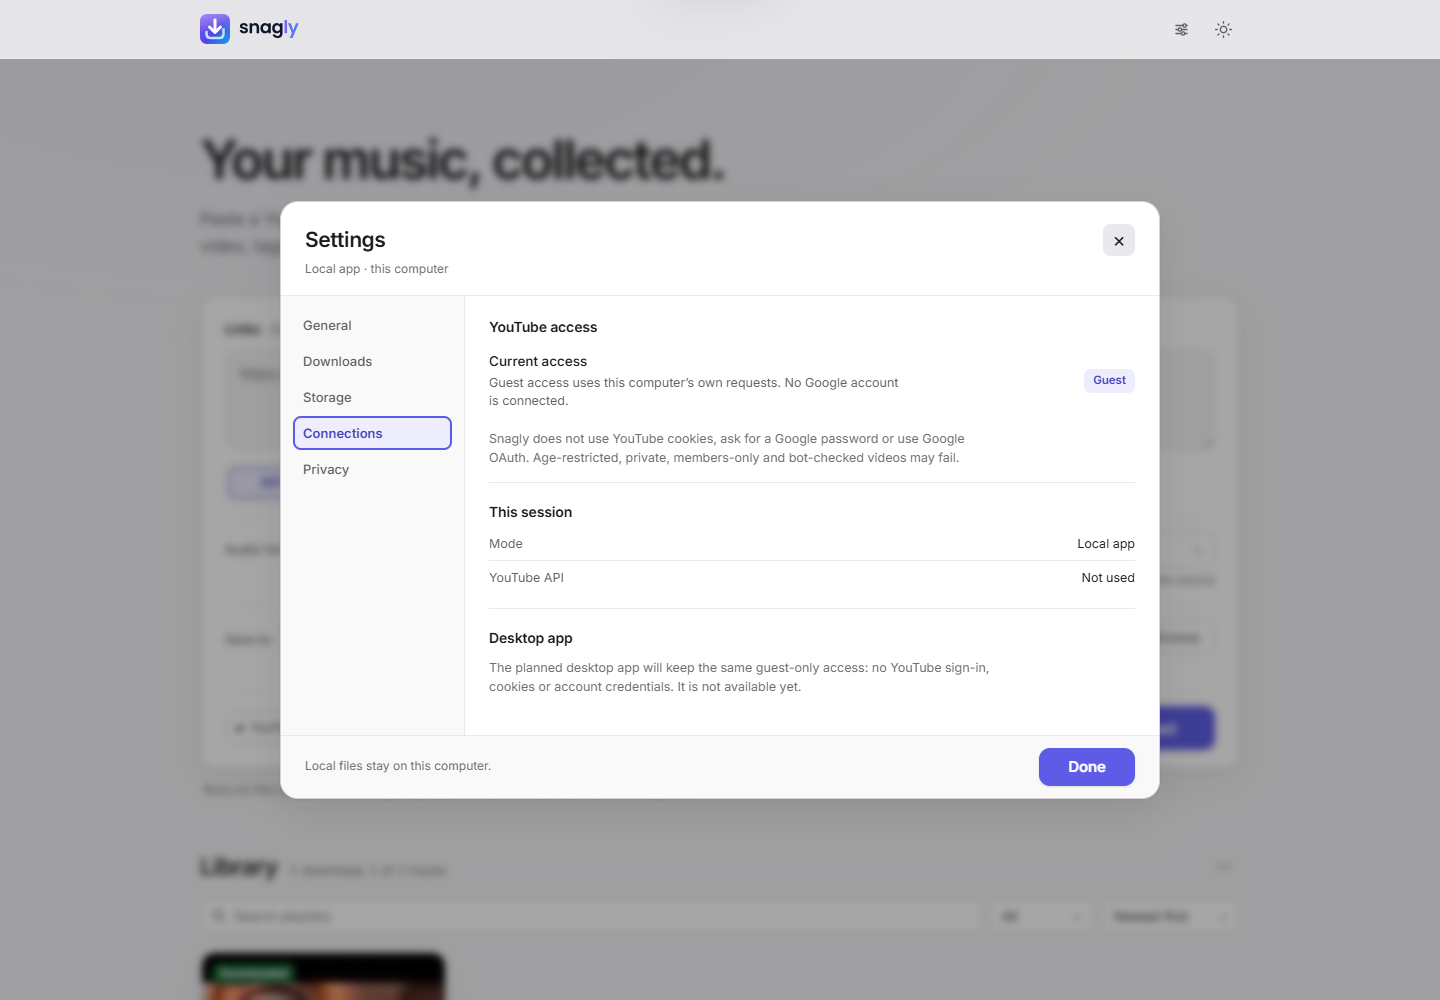
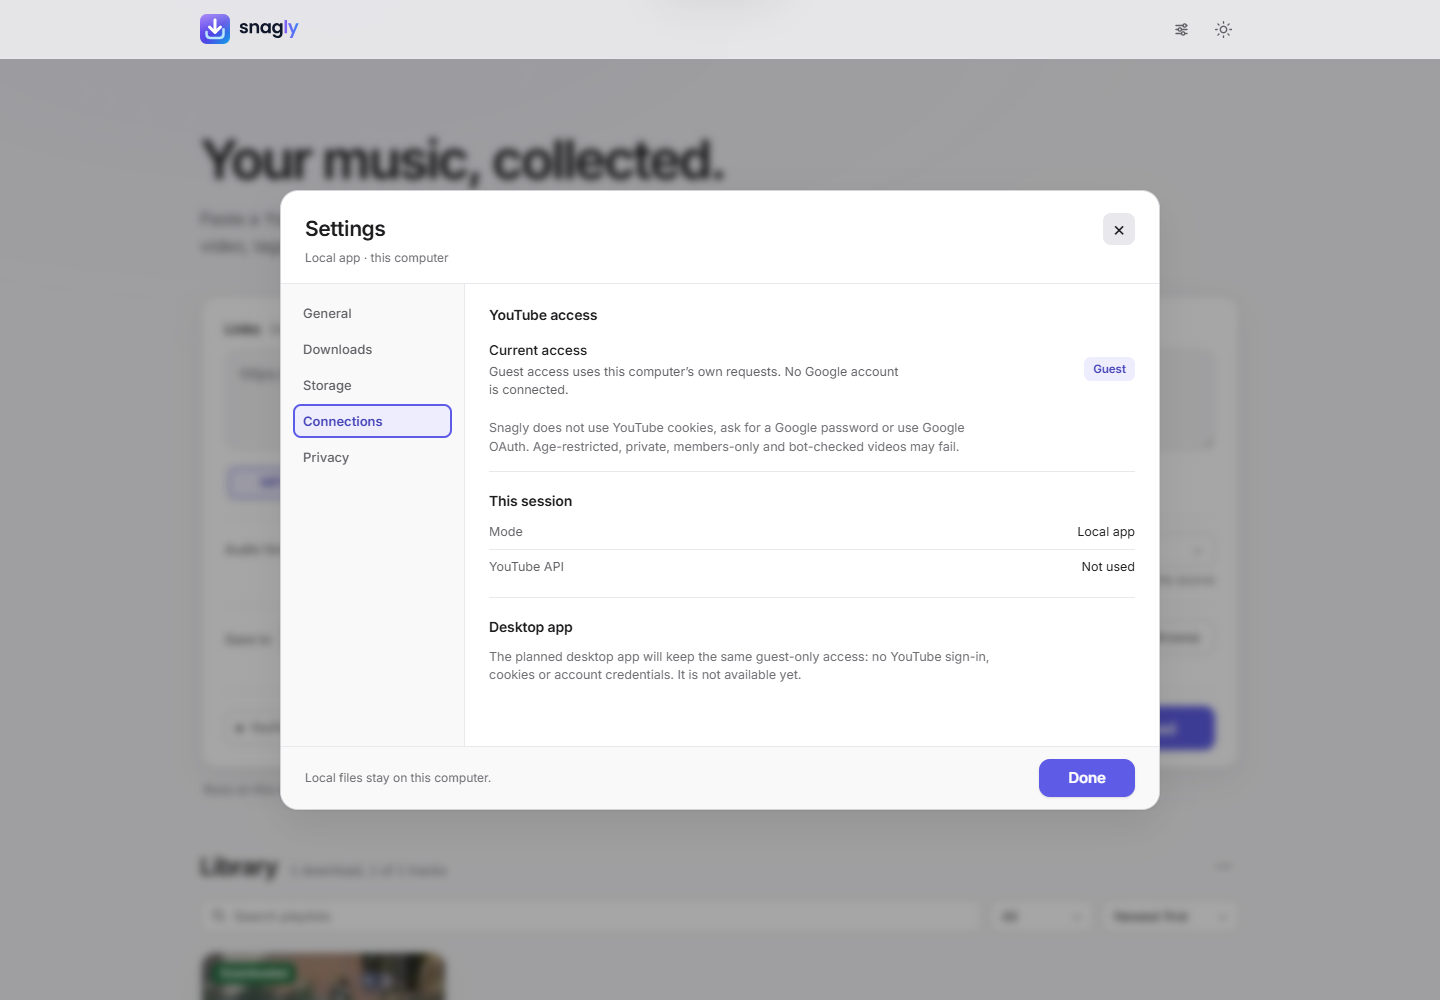
Keep the settings dialog at one stable height
The settings modal was content-sized, so it jumped between 383px and 597px as tabs changed. Pin it to 620px on desktop (88vh cap) and 680px on small screens (90vh cap), letting the panel scroll when a tab is taller. Refresh the affected audit screenshots.

diff --git a/apps/web/public/styles.css b/apps/web/public/styles.css
@@ -1642,6 +1642,7 @@ button { cursor: pointer; }
 /* ---- Settings dialog ---- */
 .settings-modal {
   width: min(880px, 100%);
+  height: min(620px, 88vh);
   max-height: 88vh;
 }
 .settings-head {
@@ -1840,7 +1841,7 @@ button { cursor: pointer; }
   .filmstrip { grid-template-columns: repeat(auto-fill, minmax(160px, 1fr)); gap: 24px 16px; }
   .empty-state { grid-template-columns: auto minmax(0, 1fr); align-items: start; padding: 22px 20px; }
   .empty-state .quiet-button { grid-column: 2; justify-self: start; margin-top: 4px; }
-  .settings-modal { width: min(100%, 720px); max-height: 90vh; }
+  .settings-modal { width: min(100%, 720px); height: min(680px, 90vh); max-height: 90vh; }
   .settings-layout { grid-template-columns: 1fr; }
   .settings-nav {
     flex-direction: row;

diff --git a/CHANGELOG.md b/CHANGELOG.md
@@ -25,6 +25,8 @@ All notable changes to Snagly are documented here. The format follows
 
 ### Changed
 
+- Settings keeps one stable height, so switching tabs no longer resizes the
+  dialog. Taller tabs scroll inside the panel while the footer stays put.
 - Removed the `localBrowserCookies` capability and the local `useCookies` /
   `cookieSource` status fields.
 
